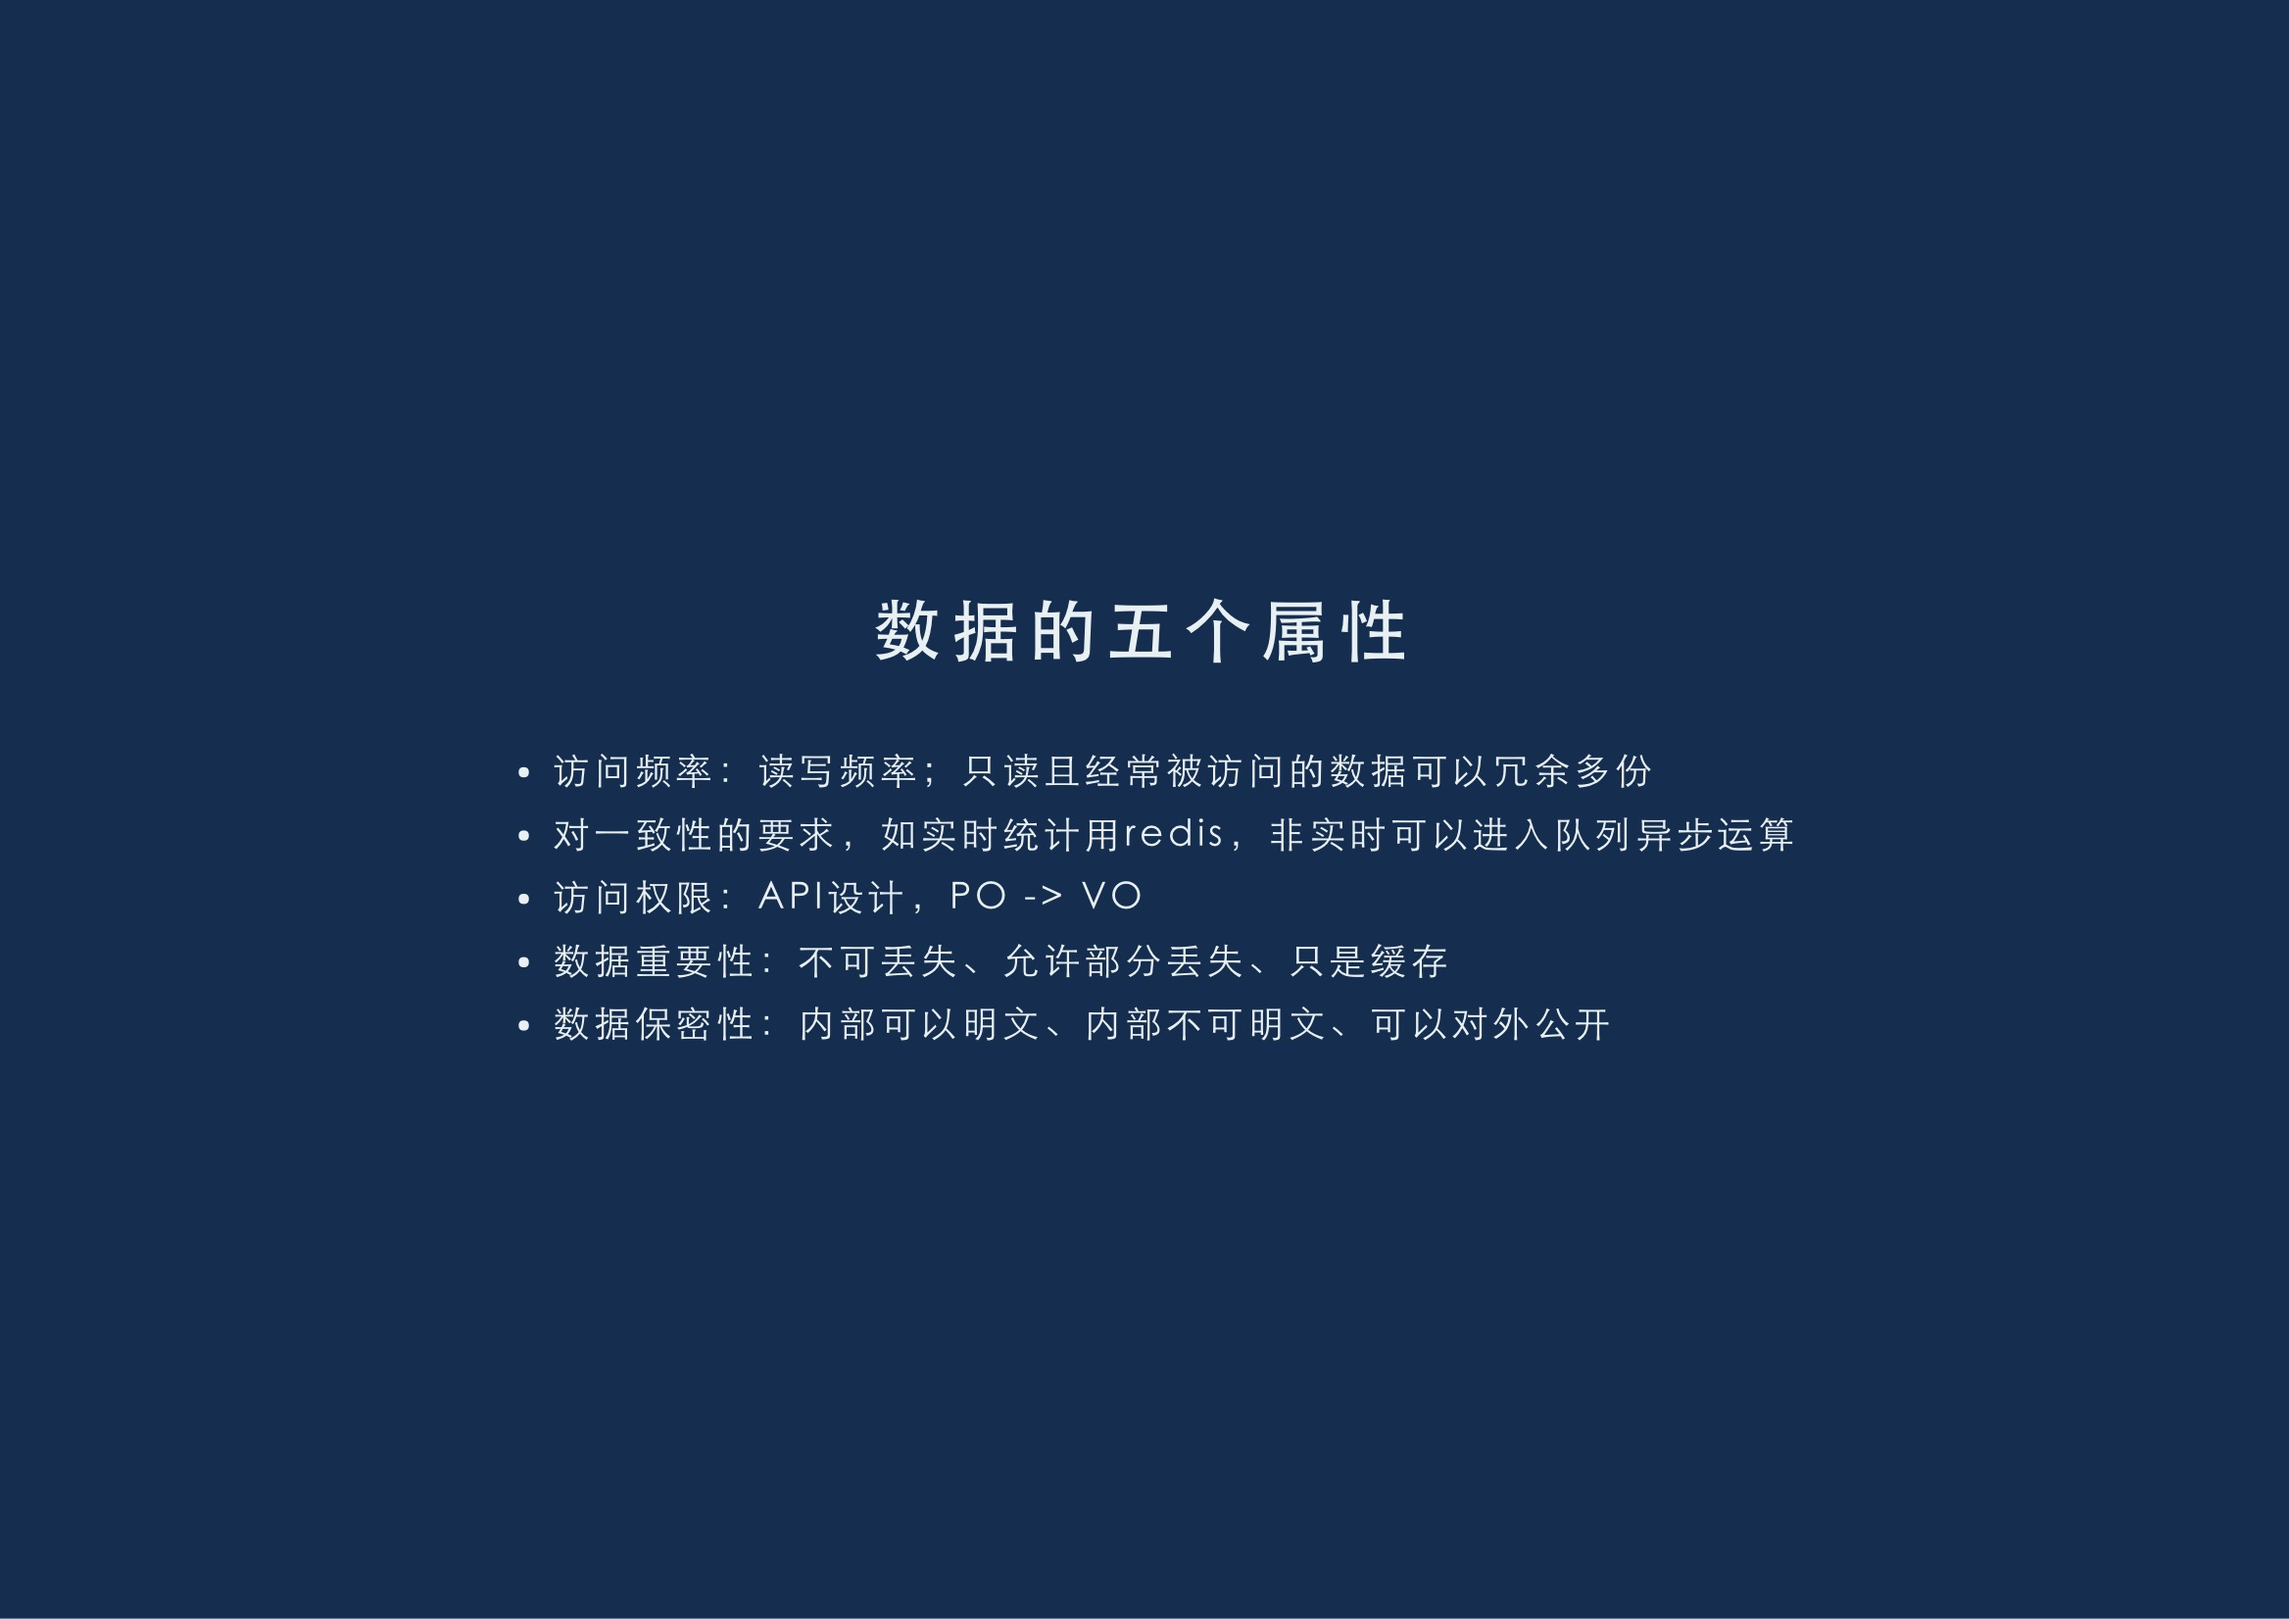
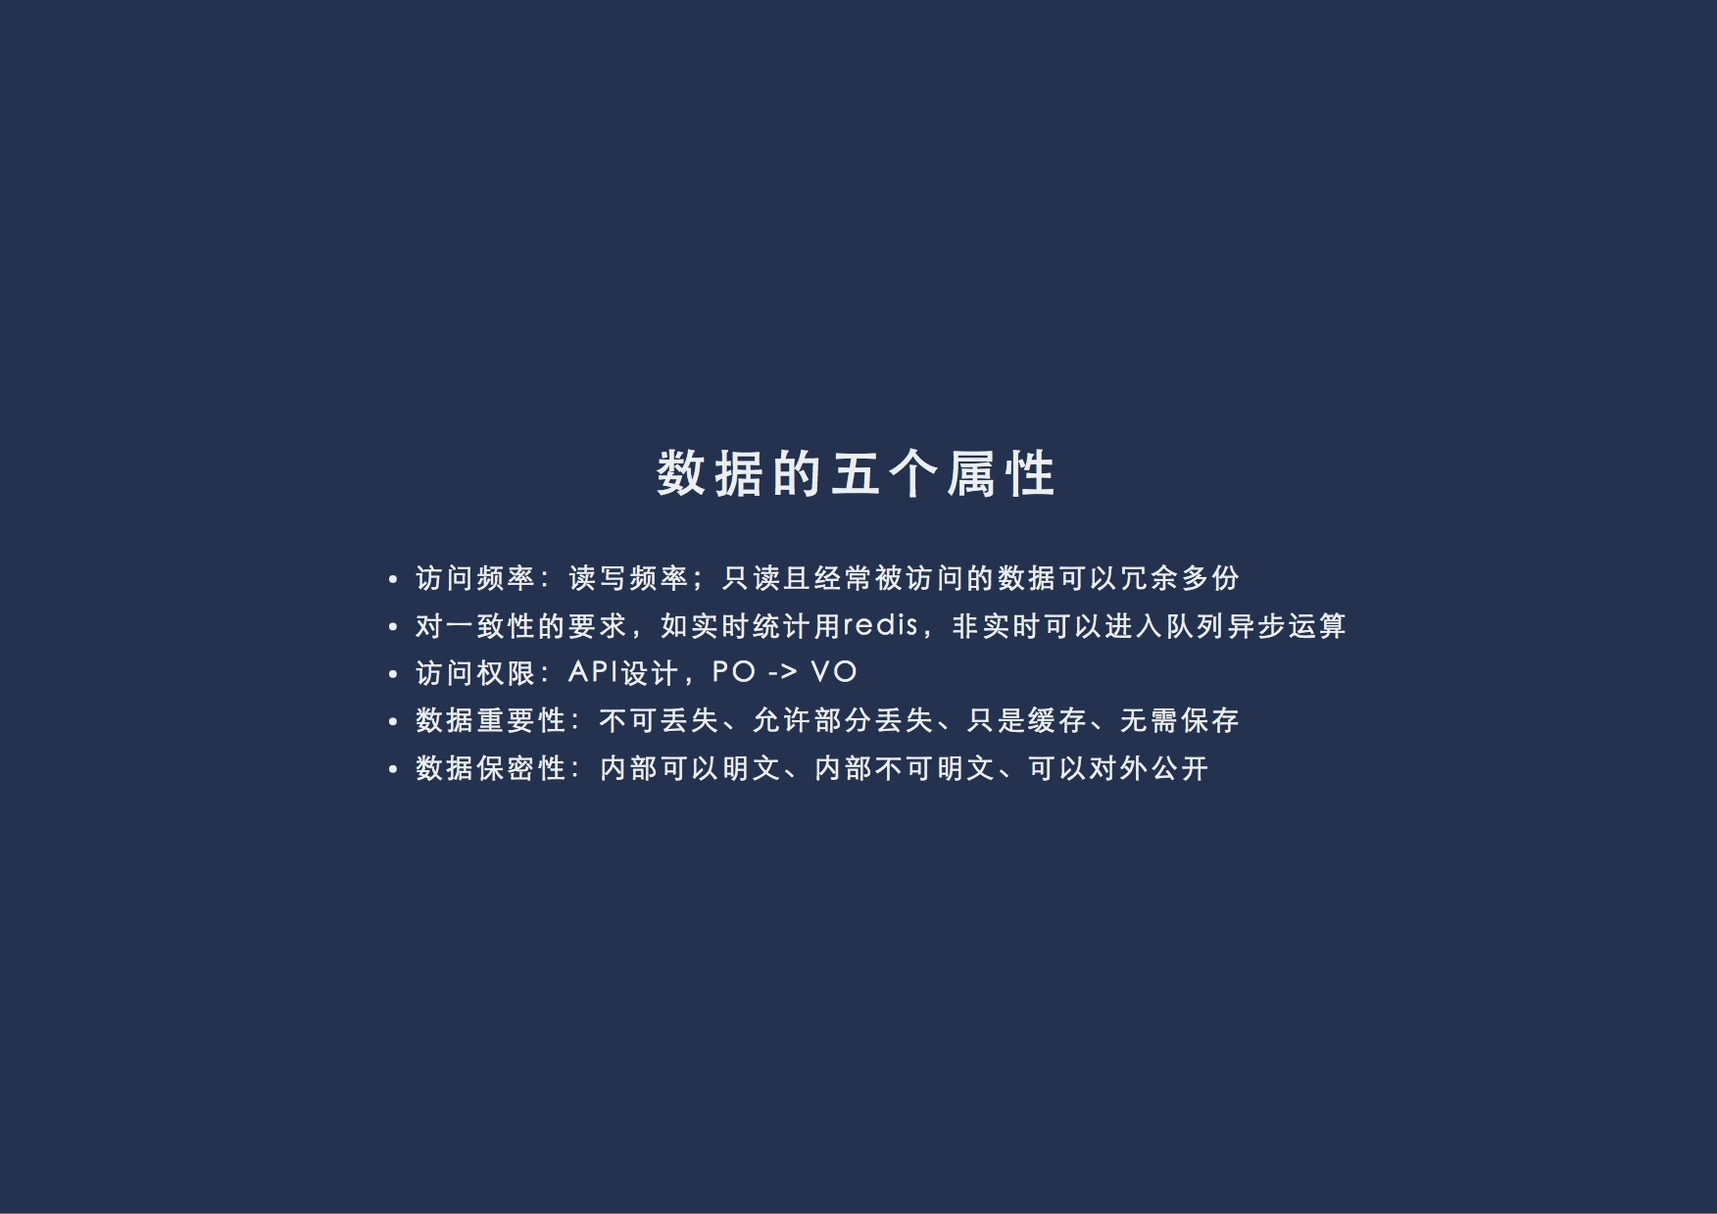
Site updated at 2017-08-30 01:54:52 UTC

Changed region(s): [[0.2466, 0.46, 0.8014, 0.6441], [0.3699, 0.368, 0.6164, 0.4294]]

diff --git a/arch-ppt/index.html b/arch-ppt/index.html
@@ -170,7 +170,7 @@
 <li>访问频率：读写频率；只读且经常被访问的数据可以冗余多份</li>
 <li>对一致性的要求，如实时统计用redis，非实时可以进入队列异步运算</li>
 <li>访问权限：API设计，PO -&gt; VO</li>
-<li>数据重要性：不可丢失、允许部分丢失、只是缓存</li>
+<li>数据重要性：不可丢失、允许部分丢失、只是缓存、无需保存</li>
 <li>数据保密性：内部可以明文、内部不可明文、可以对外公开</li>
 </ul>
 
